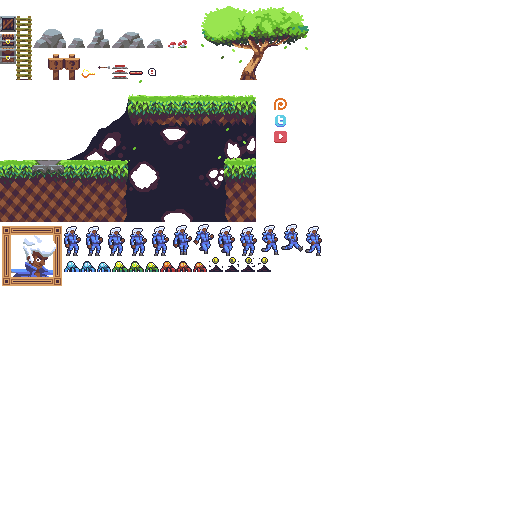
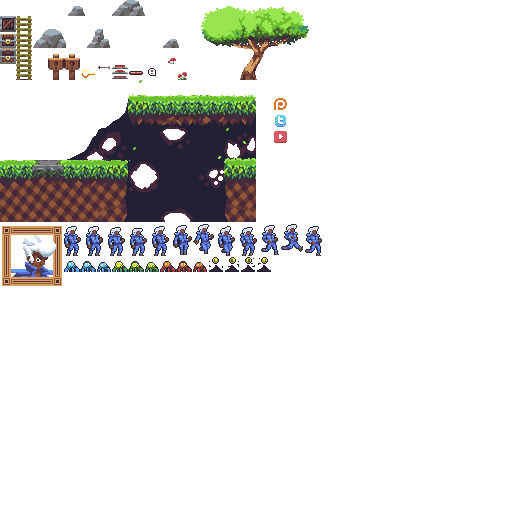
Implemented parallax backgrounds

diff --git a/src/components/LevelMap.ts b/src/components/LevelMap.ts
@@ -1,54 +1,79 @@
-import { Player } from '@src/entities';
 import { LevelScene } from '@src/scenes';
-import { Clouds } from './Clouds';
+import { LevelBackground } from './LevelBackground';
 
 export class LevelMap {
 	public platforms: Phaser.Tilemaps.DynamicTilemapLayer;
-	public objects: Phaser.Tilemaps.DynamicTilemapLayer;
+	public platformObjects: Phaser.Tilemaps.DynamicTilemapLayer;
+	private startPosition: LevelObject;
+	private objectsLayer: Phaser.Tilemaps.ObjectLayer;
 	private scene: LevelScene;
 	private map: Phaser.Tilemaps.Tilemap;
 	private tiles: Phaser.Tilemaps.Tileset;
-	private clouds: Clouds;
+	private background: LevelBackground;
+	private scaling: number = 3;
 
 	constructor({ scene }: { scene: LevelScene }) {
 		this.scene = scene;
-		this.clouds = new Clouds({ scene });
+		this.background = new LevelBackground({ scene });
 	}
 
 	public preload() {
 		this.scene.load.image('tiles', 'assets/tilemaps/extruded.png');
 		this.scene.load.tilemapTiledJSON('map', 'assets/tilemaps/base.json');
-		this.clouds.preload();
+		this.background.preload();
 	}
 
 	public create() {
 		this.scene.cameras.main.setBackgroundColor('#448AFF');
 		this.map = this.scene.make.tilemap({ key: 'map' });
-		this.clouds.create({ map: this.map });
 		this.tiles = this.map.addTilesetImage('atlas', 'tiles', 16, 16, 1, 2);
 		this.platforms = this.createLayer('platforms');
-		this.objects = this.createLayer('platform_objects');
+		this.platforms.setDepth(50);
+		this.platformObjects = this.createLayer('platform_objects');
+		this.platformObjects.setDepth(45);
+		this.background.create({
+			width: this.platforms.displayWidth,
+			height: this.platforms.displayHeight
+		});
+		this.objectsLayer = this.map.getObjectLayer('objects');
+		this.startPosition = this.getObject('startPosition');
 		this.scene.physics.world.setBounds(
 			0,
 			0,
-			this.map.widthInPixels,
+			this.platforms.displayWidth,
 			this.scene.height
 		);
 		this.scene.cameras.main.setBounds(
 			0,
 			0,
-			this.map.widthInPixels,
+			this.platforms.displayWidth,
 			this.scene.height
 		);
 	}
 
 	public update() {
-		this.clouds.update();
+		this.background.update();
+	}
+
+	public getStartPosition(): Vector2Like {
+		const { displayX, displayY } = this.startPosition;
+		return { x: displayX, y: displayY };
+	}
+
+	private getObject(name: string): LevelObject {
+		const obj = this.objectsLayer.objects.find(
+			o => o.name === name
+		) as LevelObject;
+
+		obj.displayX = obj.x * this.scaling;
+		obj.displayY =
+			this.scene.height - this.platforms.displayHeight + obj.y * this.scaling;
+		return obj;
 	}
 
 	private createLayer(name: string): Phaser.Tilemaps.DynamicTilemapLayer {
 		const layer = this.map.createDynamicLayer(name, this.tiles, 0, 0);
-		layer.setScale(2.5);
+		layer.setScale(this.scaling);
 		layer.y = this.scene.height - layer.displayHeight;
 		layer.setCollisionFromCollisionGroup();
 		return layer;

diff --git a/src/components/LevelBackground.ts b/src/components/LevelBackground.ts
@@ -1,0 +1,98 @@
+import { LevelScene } from '@src/scenes';
+
+export class LevelBackground {
+	private scene: LevelScene;
+	private cloudsBG: Phaser.GameObjects.TileSprite;
+	private cloudsMG1: Phaser.GameObjects.TileSprite;
+	private cloudsMG2: Phaser.GameObjects.TileSprite;
+	private cloudsMG3: Phaser.GameObjects.TileSprite;
+	private height: number;
+	private width: number;
+
+	constructor({ scene }: { scene: LevelScene }) {
+		this.scene = scene;
+	}
+
+	public preload() {
+		this.scene.load.image(
+			'sky_cloud_big',
+			'assets/backgrounds/sky_cloud_big.png'
+		);
+		this.scene.load.image('mountains', 'assets/backgrounds/mountains.png');
+		this.scene.load.image('clouds_BG', 'assets/backgrounds/clouds_BG.png');
+		this.scene.load.image('clouds_MG_1', 'assets/backgrounds/clouds_MG_1.png');
+		this.scene.load.image('clouds_MG_2', 'assets/backgrounds/clouds_MG_2.png');
+		this.scene.load.image('clouds_MG_3', 'assets/backgrounds/clouds_MG_3.png');
+	}
+
+	public create({ width, height }: { width: number; height: number }) {
+		this.width = width;
+		this.height = height;
+		this.createParallax();
+	}
+
+	public update() {
+		this.cloudsBG.tilePositionX -= 0.01;
+		this.cloudsMG3.tilePositionX -= 0.02;
+		this.cloudsMG2.tilePositionX -= 0.03;
+		this.cloudsMG1.tilePositionX -= 0.05;
+	}
+
+	private createParallax() {
+		this.cloudsBG = this.createTileSprite({
+			depth: 2,
+			name: 'clouds_BG',
+			scrollFactor: 0.1,
+			scale: 4
+		});
+		this.createTileSprite({
+			depth: 3,
+			name: 'mountains',
+			scale: 4,
+			scrollFactor: 0.15
+		});
+		this.cloudsMG3 = this.createTileSprite({
+			depth: 4,
+			name: 'clouds_MG_3',
+			scrollFactor: 0.3,
+			scale: 4
+		});
+		this.cloudsMG2 = this.createTileSprite({
+			depth: 5,
+			name: 'clouds_MG_2',
+			scrollFactor: 0.4,
+			scale: 4
+		});
+		this.cloudsMG1 = this.createTileSprite({
+			depth: 6,
+			name: 'clouds_MG_1',
+			scrollFactor: 0.5,
+			scale: 4
+		});
+	}
+
+	private createTileSprite({
+		name,
+		depth,
+		y,
+		scrollFactor,
+		scale = 2,
+		width = this.width
+	}: {
+		name: string;
+		scale?: number;
+		depth?: number;
+		y?: number;
+		width?: number;
+		scrollFactor?: number;
+	}) {
+		const tileSprite = this.scene.add.tileSprite(0, 0, 0, 0, name);
+		tileSprite.setOrigin(0, 0);
+		tileSprite.setScale(scale);
+		tileSprite.width = width;
+		tileSprite.y = y == null ? this.scene.height - tileSprite.displayHeight : y;
+		if (scrollFactor != null) tileSprite.setScrollFactor(scrollFactor);
+		if (depth != null) tileSprite.setDepth(depth);
+		return tileSprite;
+	}
+}

diff --git a/src/entities/Player.ts b/src/entities/Player.ts
@@ -24,7 +24,7 @@ export class Player {
 	};
 	private spriteKey: string = 'orly';
 	private cursors: PhCursorKeys;
-	private movementSpeed: number = 250;
+	private movementSpeed: number = 300;
 	private jumpPower: number = 550;
 	private jumpVelocityX: number = 1;
 	private jumpPressDuration: number = 300;
@@ -39,7 +39,9 @@ export class Player {
 			`assets/sprites/${this.spriteKey}.png`,
 			{
 				frameHeight: 102,
-				frameWidth: 77
+				frameWidth: 77,
+				margin: 1,
+				spacing: 2
 			}
 		);
 	}
@@ -216,6 +218,7 @@ export class Player {
 		this.sprite.anims.load(this.animations.jump.key);
 		this.sprite.body.width = 36;
 		this.sprite.body.offset.x = 20;
+		this.sprite.setDepth(49);
 		this.scene.cameras.main.startFollow(this.sprite);
 	}
 }

diff --git a/src/scenes/MainScene.ts b/src/scenes/MainScene.ts
@@ -22,7 +22,7 @@ export class MainScene extends LevelScene {
 
 	public create() {
 		this.map.create();
-		this.player.create({ position: { x: 300, y: 520 } });
+		this.player.create({ position: this.map.getStartPosition() });
 		this.addColliders();
 	}
 
@@ -33,6 +33,6 @@ export class MainScene extends LevelScene {
 
 	private addColliders() {
 		this.physics.add.collider(this.map.platforms, this.player.sprite);
-		this.physics.add.collider(this.map.objects, this.player.sprite);
+		this.physics.add.collider(this.map.platformObjects, this.player.sprite);
 	}
 }

diff --git a/src/assets/tilemaps/atlas.tsx b/src/assets/tilemaps/atlas.tsx
@@ -1,6 +1,6 @@
 <?xml version="1.0" encoding="UTF-8"?>
-<tileset version="1.2" tiledversion="1.2.3" name="atlas" tilewidth="16" tileheight="16" tilecount="1024" columns="32">
- <image source="atlas.png" width="512" height="512"/>
+<tileset version="1.2" tiledversion="1.2.3" name="atlas" tilewidth="16" tileheight="16" spacing="2" margin="1" tilecount="1024" columns="32">
+ <image source="extruded.png" width="576" height="576"/>
  <tile id="32">
   <objectgroup draworder="index">
    <object id="1" x="0" y="0" width="16" height="16"/>

diff --git a/src/index.html b/src/index.html
@@ -92,14 +92,6 @@
 		<div id="phaser-game"></div>
 
 		<script>
-			// var loadingScreen = document.getElementsByTagName('body')
-			// loadingScreen[0].addEventListener('click', function(event) {
-			//   event.preventDefault()
-			//   console.log('click')
-			// })
-		</script>
-
-		<script>
 			// Check that service workers are registered
 			if ('serviceWorker' in navigator) {
 				// Use the window load event to keep the page load performant

diff --git a/src/typings/custom.d.ts b/src/typings/custom.d.ts
@@ -1,0 +1,5 @@
+declare type LevelObject = Phaser.GameObjects.GameObject &
+	ParticleEmitterBounds & {
+		displayX: number;
+		displayY: number;
+	};
